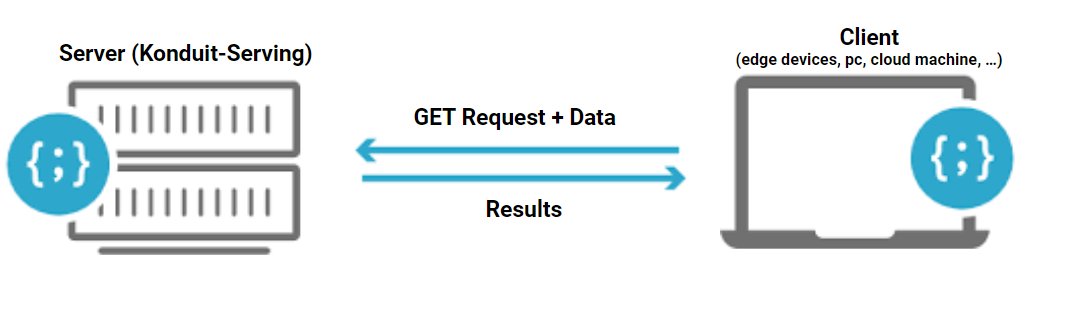
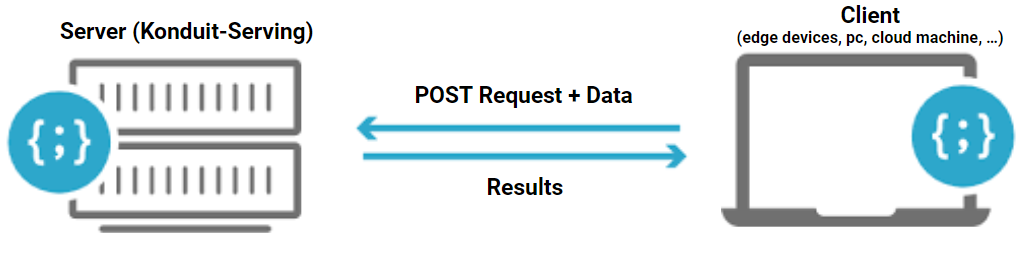
update on multi-step DL4J LSTM

Changed region(s): [[0.0, 0.0, 0.9971, 0.9375], [0.3739, 0.3125, 0.6232, 0.4062]]

diff --git a/3-3-DL4J-LSTMTextClassification-MultiSteps/client.py b/3-3-DL4J-LSTMTextClassification-MultiSteps/client.py
@@ -6,6 +6,17 @@ from konduit.client import Client
 from konduit.load import client_from_file
 import time
 
+def get_output(response, response_time):
+
+    index = int(np.argmax(response))
+
+    print("Class: {}".format(labelhandler[index]))
+    print("Probabilities: {}\n".format(np.max(prediction)))
+
+
+    print("Average time per request: {0:.2f} ms/request".format(response_time))
+    print("Average time per request: {0:.2f} s/request".format(response_time * 0.001))
+
 current_milli_time = lambda: int(round(time.time() * 1000))
 
 port = 65322
@@ -22,25 +33,28 @@ f = open (root_path + "20news-bydate\\20news-bydate-test\\alt.atheism\\53068", "
 
 contents = f.read()
 
-input_param = {"String": contents}
 
-total_count = 5
-iteration = range(total_count)
+payload = {client.input_names[0]: contents}
+
+#-----Konduit Package ------------
 
 before_milli_time = current_milli_time()
 
-prediction = client.predict({client.input_names[0]: input_param})
-
-index = int(np.argmax(prediction))
-
-print("Class: {}".format(labelhandler[index]))
-print("Probabilities: {}\n".format(np.max(prediction)))
+prediction = client.predict(payload)
 
 after_milli_time = current_milli_time()
 
-total_time = after_milli_time - before_milli_time
-milli_average = total_time / float(total_count)
+get_output(prediction, after_milli_time - before_milli_time)
 
-print("Total time taken: {} ms".format(total_time))
-print("Average time per request: {0:.2f} ms/request".format(milli_average))
-print("Average time per request: {0:.2f} s/request".format(milli_average * 0.001))
+#-----Requests Package ------------
+before_milli_time = current_milli_time()
+
+response = requests.post("http://localhost:65322/raw/json", json = payload)
+
+after_milli_time = current_milli_time()
+
+if response.status_code == 200:
+    print('\nRaw Requests Success!\n')
+    get_output(response, after_milli_time - before_milli_time)
+elif response.status_code == 404:
+    print('RAW Request failed.')
